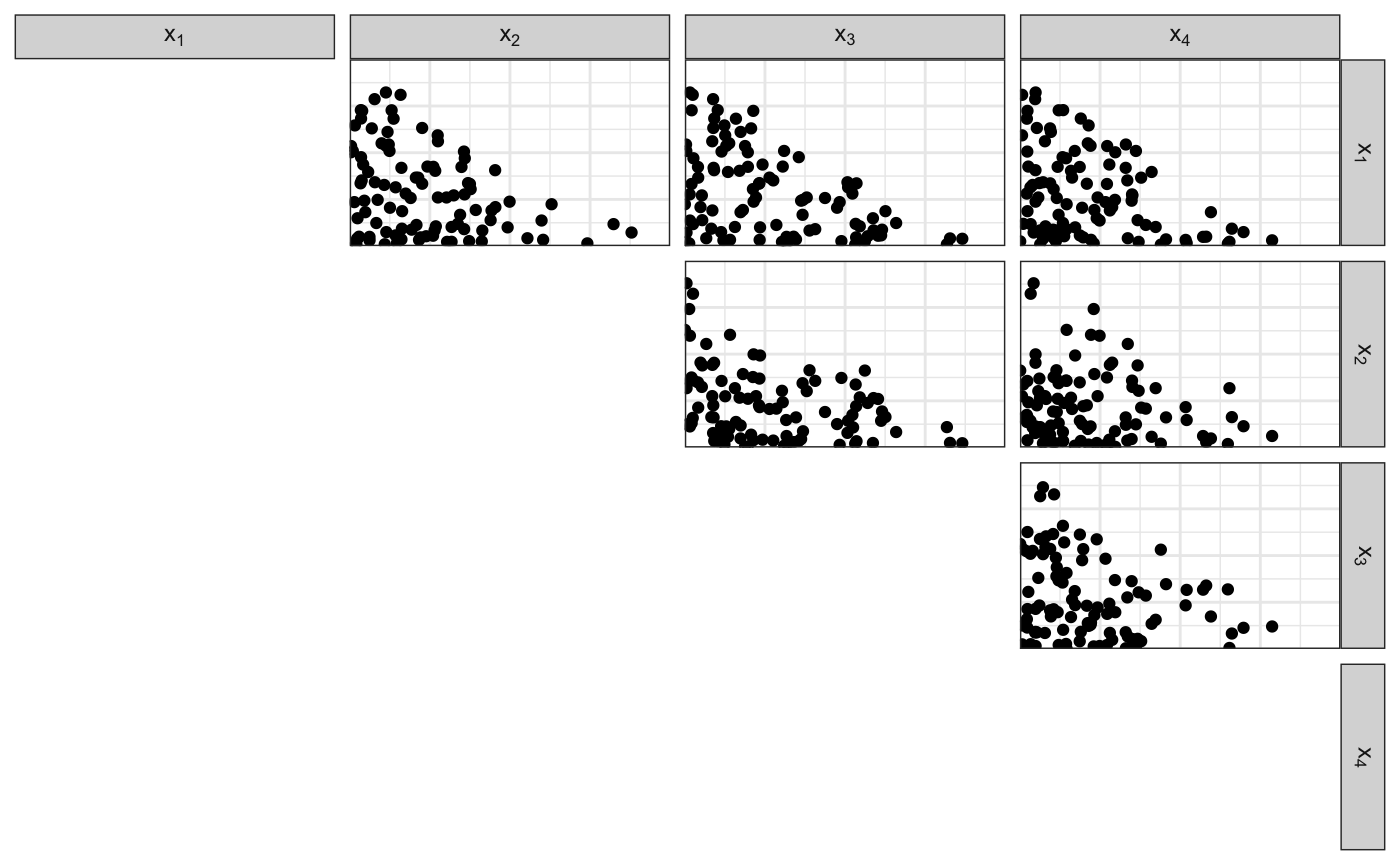
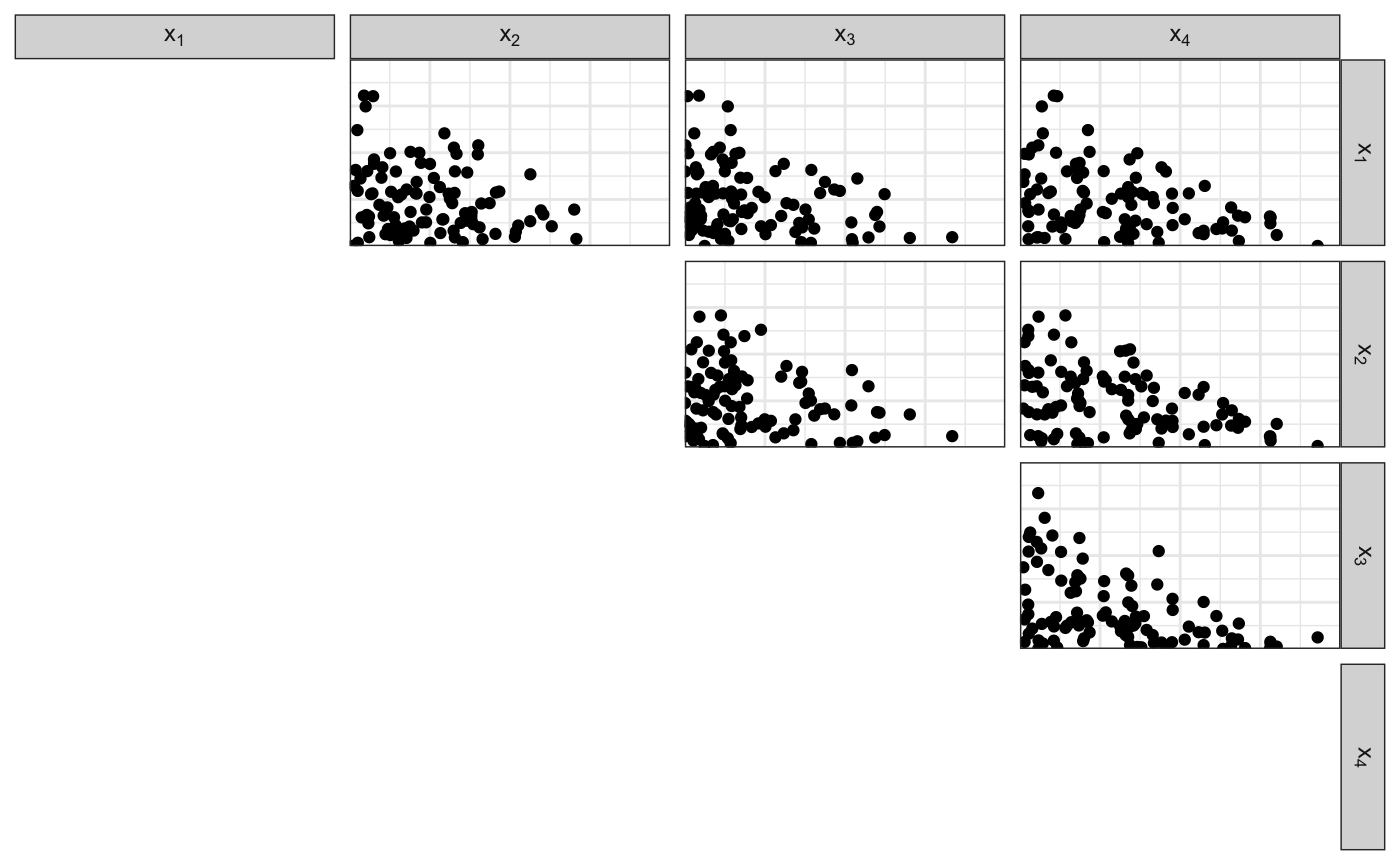
Built site for rsamplestudy: 0.3.2@d53b298

diff --git a/articles/dirichletdirichlet-study.html b/articles/dirichletdirichlet-study.html
@@ -145,24 +145,24 @@ This vignette describes the Dirichlet-Dirichlet model.</p>
 <p>Notice that the hyperparameter is sampled, too (but it can be fixed).</p>
 <div class="sourceCode" id="cb2"><html><body><pre class="r"><span class="fu"><a href="https://rdrr.io/r/utils/head.html">head</a></span>(<span class="no">list_pop</span>$<span class="no">df_pop</span>)
 <span class="co">#&gt; # A tibble: 6 x 5</span>
-<span class="co">#&gt;   source `x[1]`   `x[2]` `x[3]`    `x[4]`</span>
-<span class="co">#&gt;    &lt;int&gt;  &lt;dbl&gt;    &lt;dbl&gt;  &lt;dbl&gt;     &lt;dbl&gt;</span>
-<span class="co">#&gt; 1      1   1    0.            0 1.40e- 40</span>
-<span class="co">#&gt; 2      1   1    1.48e-47      0 2.80e-261</span>
-<span class="co">#&gt; 3      1   1    0.            0 1.50e- 35</span>
-<span class="co">#&gt; 4      1   1    0.            0 1.25e- 85</span>
-<span class="co">#&gt; 5      1   1.00 0.            0 1.89e-  8</span>
-<span class="co">#&gt; 6      1   1    0.            0 3.10e-132</span>
+<span class="co">#&gt;   source   `x[1]` `x[2]` `x[3]`   `x[4]`</span>
+<span class="co">#&gt;    &lt;int&gt;    &lt;dbl&gt;  &lt;dbl&gt;  &lt;dbl&gt;    &lt;dbl&gt;</span>
+<span class="co">#&gt; 1      1 0.579         0 0.413  0.00773 </span>
+<span class="co">#&gt; 2      1 0.777         0 0.220  0.00280 </span>
+<span class="co">#&gt; 3      1 0.000662      0 0.992  0.00771 </span>
+<span class="co">#&gt; 4      1 0.784         0 0.216  0.000114</span>
+<span class="co">#&gt; 5      1 0.0207        0 0.951  0.0284  </span>
+<span class="co">#&gt; 6      1 0.356         0 0.0253 0.619</span>
 <span class="fu"><a href="https://rdrr.io/r/utils/head.html">head</a></span>(<span class="no">list_pop</span>$<span class="no">df_sources</span>)
 <span class="co">#&gt; # A tibble: 6 x 5</span>
 <span class="co">#&gt;   source `theta[1]` `theta[2]` `theta[3]` `theta[4]`</span>
 <span class="co">#&gt;    &lt;int&gt;      &lt;dbl&gt;      &lt;dbl&gt;      &lt;dbl&gt;      &lt;dbl&gt;</span>
-<span class="co">#&gt; 1      1     0.992    0.000481 0.00000118  0.00755  </span>
-<span class="co">#&gt; 2      2     0.209    0.0658   0.208       0.517    </span>
-<span class="co">#&gt; 3      3     0.0200   0.00881  0.666       0.305    </span>
-<span class="co">#&gt; 4      4     0.311    0.000174 0.00384     0.685    </span>
-<span class="co">#&gt; 5      5     0.0694   0.880    0.0506      0.0000742</span>
-<span class="co">#&gt; 6      6     0.954    0.000265 0.0417      0.00433</span></pre></body></html></div>
+<span class="co">#&gt; 1      1   0.340      8.66e-41 0.392           0.268</span>
+<span class="co">#&gt; 2      2   0.508      4.76e-32 0.106           0.385</span>
+<span class="co">#&gt; 3      3   0.0187     5.01e- 1 0.293           0.188</span>
+<span class="co">#&gt; 4      4   0.000576   1.41e-13 0.164           0.835</span>
+<span class="co">#&gt; 5      5   0.000625   4.62e-16 0.00000671      0.999</span>
+<span class="co">#&gt; 6      6   0.00141    7.98e- 9 0.0159          0.983</span></pre></body></html></div>
 </div>
 <div id="hyperparameters" class="section level2">
 <h2 class="hasAnchor">
@@ -189,33 +189,33 @@ This is generically done using <code>make_dataset_splits</code>:</p>
 <span class="co">#&gt; [5] "df_questioned"  "df_background"</span></pre></body></html></div>
 <div class="sourceCode" id="cb5"><html><body><pre class="r"><span class="fu"><a href="https://rdrr.io/r/utils/head.html">head</a></span>(<span class="no">list_samples</span>$<span class="no">df_reference</span>)
 <span class="co">#&gt; # A tibble: 6 x 5</span>
-<span class="co">#&gt;   source    `x[1]` `x[2]` `x[3]`      `x[4]`</span>
-<span class="co">#&gt;    &lt;int&gt;     &lt;dbl&gt;  &lt;dbl&gt;  &lt;dbl&gt;       &lt;dbl&gt;</span>
-<span class="co">#&gt; 1      9 9.55e- 59 0.861  0.0482 0.0911     </span>
-<span class="co">#&gt; 2      9 1.92e- 85 0.409  0.583  0.00867    </span>
-<span class="co">#&gt; 3      9 8.54e-141 0.0408 0.694  0.265      </span>
-<span class="co">#&gt; 4      9 2.46e-274 0.199  0.801  0.000195   </span>
-<span class="co">#&gt; 5      9 2.37e-102 0.324  0.676  0.000000356</span>
-<span class="co">#&gt; 6      9 0.        0.0492 0.949  0.00192</span>
+<span class="co">#&gt;   source  `x[1]` `x[2]`  `x[3]`    `x[4]`</span>
+<span class="co">#&gt;    &lt;int&gt;   &lt;dbl&gt;  &lt;dbl&gt;   &lt;dbl&gt;     &lt;dbl&gt;</span>
+<span class="co">#&gt; 1     18 0.0109       0 0.989   2.85e- 69</span>
+<span class="co">#&gt; 2     18 0.586        0 0.414   7.06e- 88</span>
+<span class="co">#&gt; 3     18 0.106        0 0.894   6.36e- 50</span>
+<span class="co">#&gt; 4     18 0.00494      0 0.995   7.01e- 62</span>
+<span class="co">#&gt; 5     18 0.993        0 0.00741 3.17e- 41</span>
+<span class="co">#&gt; 6     18 0.846        0 0.154   1.70e-164</span>
 <span class="fu"><a href="https://rdrr.io/r/utils/head.html">head</a></span>(<span class="no">list_samples</span>$<span class="no">df_questioned</span>)
 <span class="co">#&gt; # A tibble: 5 x 5</span>
-<span class="co">#&gt;   source   `x[1]` `x[2]`   `x[3]`   `x[4]`</span>
-<span class="co">#&gt;    &lt;int&gt;    &lt;dbl&gt;  &lt;dbl&gt;    &lt;dbl&gt;    &lt;dbl&gt;</span>
-<span class="co">#&gt; 1      1 1.00e+ 0  0     0        1.50e-35</span>
-<span class="co">#&gt; 2      8 6.99e- 7  0.299 0.00983  6.92e- 1</span>
-<span class="co">#&gt; 3     16 5.04e- 1  0.496 0        1.14e- 5</span>
-<span class="co">#&gt; 4     16 4.16e- 1  0.584 0        5.96e- 9</span>
-<span class="co">#&gt; 5     20 2.48e-19  1.00  0.000441 1.57e-44</span>
+<span class="co">#&gt;   source       `x[1]`   `x[2]`    `x[3]`  `x[4]`</span>
+<span class="co">#&gt;    &lt;int&gt;        &lt;dbl&gt;    &lt;dbl&gt;     &lt;dbl&gt;   &lt;dbl&gt;</span>
+<span class="co">#&gt; 1      2 0.0161       0.       9.80e-  1 0.00353</span>
+<span class="co">#&gt; 2      3 0.0000000358 8.68e- 1 7.61e-  2 0.0555 </span>
+<span class="co">#&gt; 3     12 0            2.77e- 6 1.29e- 35 1.00   </span>
+<span class="co">#&gt; 4     14 0            5.61e-82 2.96e-  8 1.00   </span>
+<span class="co">#&gt; 5     20 0.715        0.       4.46e-185 0.285</span>
 <span class="fu"><a href="https://rdrr.io/r/utils/head.html">head</a></span>(<span class="no">list_samples</span>$<span class="no">df_background</span>)
 <span class="co">#&gt; # A tibble: 6 x 5</span>
-<span class="co">#&gt;   source `x[1]`   `x[2]` `x[3]`    `x[4]`</span>
-<span class="co">#&gt;    &lt;int&gt;  &lt;dbl&gt;    &lt;dbl&gt;  &lt;dbl&gt;     &lt;dbl&gt;</span>
-<span class="co">#&gt; 1      1   1    0.            0 1.40e- 40</span>
-<span class="co">#&gt; 2      1   1    1.48e-47      0 2.80e-261</span>
-<span class="co">#&gt; 3      1   1    0.            0 1.25e- 85</span>
-<span class="co">#&gt; 4      1   1.00 0.            0 1.89e-  8</span>
-<span class="co">#&gt; 5      1   1    0.            0 3.10e-132</span>
-<span class="co">#&gt; 6      1   1    0.            0 2.19e- 18</span></pre></body></html></div>
+<span class="co">#&gt;   source   `x[1]` `x[2]` `x[3]`   `x[4]`</span>
+<span class="co">#&gt;    &lt;int&gt;    &lt;dbl&gt;  &lt;dbl&gt;  &lt;dbl&gt;    &lt;dbl&gt;</span>
+<span class="co">#&gt; 1      1 0.579         0 0.413  0.00773 </span>
+<span class="co">#&gt; 2      1 0.777         0 0.220  0.00280 </span>
+<span class="co">#&gt; 3      1 0.000662      0 0.992  0.00771 </span>
+<span class="co">#&gt; 4      1 0.784         0 0.216  0.000114</span>
+<span class="co">#&gt; 5      1 0.0207        0 0.951  0.0284  </span>
+<span class="co">#&gt; 6      1 0.356         0 0.0253 0.619</span></pre></body></html></div>
 <div id="source-parameters" class="section level3">
 <h3 class="hasAnchor">
 <a href="#source-parameters" class="anchor"></a>Source parameters</h3>

diff --git a/articles/dirichlet-distribution.html b/articles/dirichlet-distribution.html
@@ -155,12 +155,12 @@ In other words, <span class="math inline">\(\boldsymbol{X} \in \text{Simplex}{(p
 <span class="co">#&gt; # A tibble: 6 x 4</span>
 <span class="co">#&gt;    `x[1]`   `x[2]` `x[3]`   `x[4]`</span>
 <span class="co">#&gt;     &lt;dbl&gt;    &lt;dbl&gt;  &lt;dbl&gt;    &lt;dbl&gt;</span>
-<span class="co">#&gt; 1 0.103   4.45e- 7  0.897 2.10e- 5</span>
-<span class="co">#&gt; 2 0.00165 7.68e- 4  0.913 8.43e- 2</span>
-<span class="co">#&gt; 3 0.0382  1.67e-22  0.959 2.50e- 3</span>
-<span class="co">#&gt; 4 0.0348  3.24e- 3  0.956 6.27e- 3</span>
-<span class="co">#&gt; 5 0.0326  1.77e- 7  0.953 1.46e- 2</span>
-<span class="co">#&gt; 6 0.153   5.87e- 3  0.841 3.58e-13</span></pre></body></html></div>
+<span class="co">#&gt; 1 0.0885  6.61e- 5  0.911 2.45e- 5</span>
+<span class="co">#&gt; 2 0.00151 1.04e-20  0.998 1.51e-19</span>
+<span class="co">#&gt; 3 0.366   3.04e- 3  0.614 1.77e- 2</span>
+<span class="co">#&gt; 4 0.255   6.62e- 5  0.745 2.10e- 6</span>
+<span class="co">#&gt; 5 0.00277 5.45e- 8  0.997 6.28e- 8</span>
+<span class="co">#&gt; 6 0.00466 6.33e- 3  0.989 9.85e- 5</span></pre></body></html></div>
 <pre><code>#&gt; Loading required namespace: ggplot2
 #&gt; Loading required namespace: GGally
 #&gt; Registered S3 method overwritten by 'GGally':
@@ -178,14 +178,14 @@ In other words, <span class="math inline">\(\boldsymbol{X} \in \text{Simplex}{(p
 <div class="sourceCode" id="cb5"><html><body><pre class="r"><span class="no">df_diri</span> <span class="kw">&lt;-</span> <span class="fu"><a href="../reference/fun_rdirichlet.html">fun_rdirichlet</a></span>(<span class="no">n</span>, <span class="no">alpha</span>)
 <span class="fu"><a href="https://rdrr.io/r/utils/head.html">head</a></span>(<span class="no">df_diri</span>)
 <span class="co">#&gt; # A tibble: 6 x 4</span>
-<span class="co">#&gt;   `x[1]`  `x[2]` `x[3]` `x[4]`</span>
-<span class="co">#&gt;    &lt;dbl&gt;   &lt;dbl&gt;  &lt;dbl&gt;  &lt;dbl&gt;</span>
-<span class="co">#&gt; 1 0.509  0.00970 0.310  0.171 </span>
-<span class="co">#&gt; 2 0.193  0.393   0.181  0.232 </span>
-<span class="co">#&gt; 3 0.106  0.269   0.546  0.0796</span>
-<span class="co">#&gt; 4 0.0574 0.143   0.612  0.187 </span>
-<span class="co">#&gt; 5 0.333  0.375   0.0209 0.271 </span>
-<span class="co">#&gt; 6 0.260  0.302   0.380  0.0573</span></pre></body></html></div>
+<span class="co">#&gt;   `x[1]` `x[2]` `x[3]` `x[4]`</span>
+<span class="co">#&gt;    &lt;dbl&gt;  &lt;dbl&gt;  &lt;dbl&gt;  &lt;dbl&gt;</span>
+<span class="co">#&gt; 1 0.527  0.325   0.109 0.0386</span>
+<span class="co">#&gt; 2 0.0940 0.171   0.404 0.331 </span>
+<span class="co">#&gt; 3 0.221  0.0926  0.339 0.348 </span>
+<span class="co">#&gt; 4 0.167  0.0535  0.594 0.186 </span>
+<span class="co">#&gt; 5 0.500  0.217   0.170 0.113 </span>
+<span class="co">#&gt; 6 0.0465 0.328   0.573 0.0524</span></pre></body></html></div>
 <div class="sourceCode" id="cb6"><html><body><pre class="r"><span class="fu">scatter_matrix_simplex</span>(<span class="no">df_diri</span>)</pre></body></html></div>
 <p><img src="dirichlet-distribution_files/figure-html/unnamed-chunk-5-1.png" width="700"></p>
 </div>
@@ -202,12 +202,12 @@ In other words, <span class="math inline">\(\boldsymbol{X} \in \text{Simplex}{(p
 <span class="co">#&gt; # A tibble: 6 x 4</span>
 <span class="co">#&gt;   `x[1]` `x[2]` `x[3]` `x[4]`</span>
 <span class="co">#&gt;    &lt;dbl&gt;  &lt;dbl&gt;  &lt;dbl&gt;  &lt;dbl&gt;</span>
-<span class="co">#&gt; 1  0.274  0.266  0.180  0.280</span>
-<span class="co">#&gt; 2  0.242  0.231  0.234  0.293</span>
-<span class="co">#&gt; 3  0.302  0.225  0.267  0.206</span>
-<span class="co">#&gt; 4  0.252  0.358  0.216  0.173</span>
-<span class="co">#&gt; 5  0.292  0.226  0.244  0.238</span>
-<span class="co">#&gt; 6  0.278  0.308  0.250  0.164</span></pre></body></html></div>
+<span class="co">#&gt; 1  0.267  0.263  0.301  0.168</span>
+<span class="co">#&gt; 2  0.287  0.226  0.269  0.218</span>
+<span class="co">#&gt; 3  0.288  0.234  0.256  0.222</span>
+<span class="co">#&gt; 4  0.195  0.226  0.274  0.306</span>
+<span class="co">#&gt; 5  0.326  0.182  0.270  0.222</span>
+<span class="co">#&gt; 6  0.263  0.184  0.326  0.228</span></pre></body></html></div>
 <div class="sourceCode" id="cb9"><html><body><pre class="r"><span class="fu">scatter_matrix_simplex</span>(<span class="no">df_diri</span>)</pre></body></html></div>
 <p><img src="dirichlet-distribution_files/figure-html/unnamed-chunk-8-1.png" width="700"></p>
 </div>
@@ -224,12 +224,12 @@ In other words, <span class="math inline">\(\boldsymbol{X} \in \text{Simplex}{(p
 <span class="co">#&gt; # A tibble: 6 x 4</span>
 <span class="co">#&gt;      `x[1]`    `x[2]`    `x[3]`    `x[4]`</span>
 <span class="co">#&gt;       &lt;dbl&gt;     &lt;dbl&gt;     &lt;dbl&gt;     &lt;dbl&gt;</span>
-<span class="co">#&gt; 1 9.45e- 18 8.68e-271 1.22e-135 1.00e+  0</span>
-<span class="co">#&gt; 2 8.04e-110 1.09e-229 1.00e+  0 0.       </span>
-<span class="co">#&gt; 3 7.90e- 27 2.02e-131 1.87e- 38 1.00e+  0</span>
-<span class="co">#&gt; 4 0.        0.        1.00e+  0 8.97e- 15</span>
-<span class="co">#&gt; 5 3.88e-217 8.68e- 53 1.00e+  0 1.53e-210</span>
-<span class="co">#&gt; 6 3.44e-305 7.48e-186 1.05e-134 1.00e+  0</span></pre></body></html></div>
+<span class="co">#&gt; 1 2.91e-243 1.00e+  0 2.06e- 32 3.69e-240</span>
+<span class="co">#&gt; 2 2.32e-174 6.96e- 91 1.00e+  0 2.10e-118</span>
+<span class="co">#&gt; 3 9.63e-106 1.00e+  0 4.89e-196 3.57e- 34</span>
+<span class="co">#&gt; 4 2.67e- 18 2.31e-263 1.00e+  0 9.50e-143</span>
+<span class="co">#&gt; 5 8.46e- 14 1.00e+  0 6.36e-247 1.64e-281</span>
+<span class="co">#&gt; 6 0.        1.00e+  0 0.        8.31e-105</span></pre></body></html></div>
 <div class="sourceCode" id="cb12"><html><body><pre class="r"><span class="fu">scatter_matrix_simplex</span>(<span class="no">df_diri</span>)</pre></body></html></div>
 <p><img src="dirichlet-distribution_files/figure-html/unnamed-chunk-11-1.png" width="700"></p>
 </div>

diff --git a/index.html b/index.html
@@ -95,7 +95,7 @@
 <a href="#rsamplestudy" class="anchor"></a>rsamplestudy</h1></div>
 <p>This package contains utilities to simulate data from two-level hierarchical models.</p>
 <p>It is used in a evaluative forensic setting, where two sets of samples are extracted and compared.</p>
-<p>It will be coupled to other packages where the said models are evaluated in a Bayesian way. <!-- badges: start --> <a href="https://github.com/lgaborini/rsamplestudy/actions"><img src="https://github.com/lgaborini/rsamplestudy/workflows/R-CMD-check/badge.svg" alt="R build status"></a> <!-- badges: end --> <a href="https://codecov.io/gh/lgaborini/rsamplestudy?branch=master"><img src="https://codecov.io/gh/lgaborini/rsamplestudy/branch/master/graph/badge.svg" alt="Codecov test coverage"></a></p>
+<p>It will be coupled to other packages where the said models are evaluated in a Bayesian way. <!-- badges: start --> <a href="https://github.com/lgaborini/rsamplestudy/actions"><img src="https://github.com/lgaborini/rsamplestudy/workflows/R-CMD-check/badge.svg" alt="R build status"></a> <a href="https://codecov.io/gh/lgaborini/rsamplestudy?branch=master"><img src="https://codecov.io/gh/lgaborini/rsamplestudy/branch/master/graph/badge.svg" alt="Codecov test coverage"></a> <!-- badges: end --></p>
 <div id="installation" class="section level2">
 <h2 class="hasAnchor">
 <a href="#installation" class="anchor"></a>Installation</h2>
